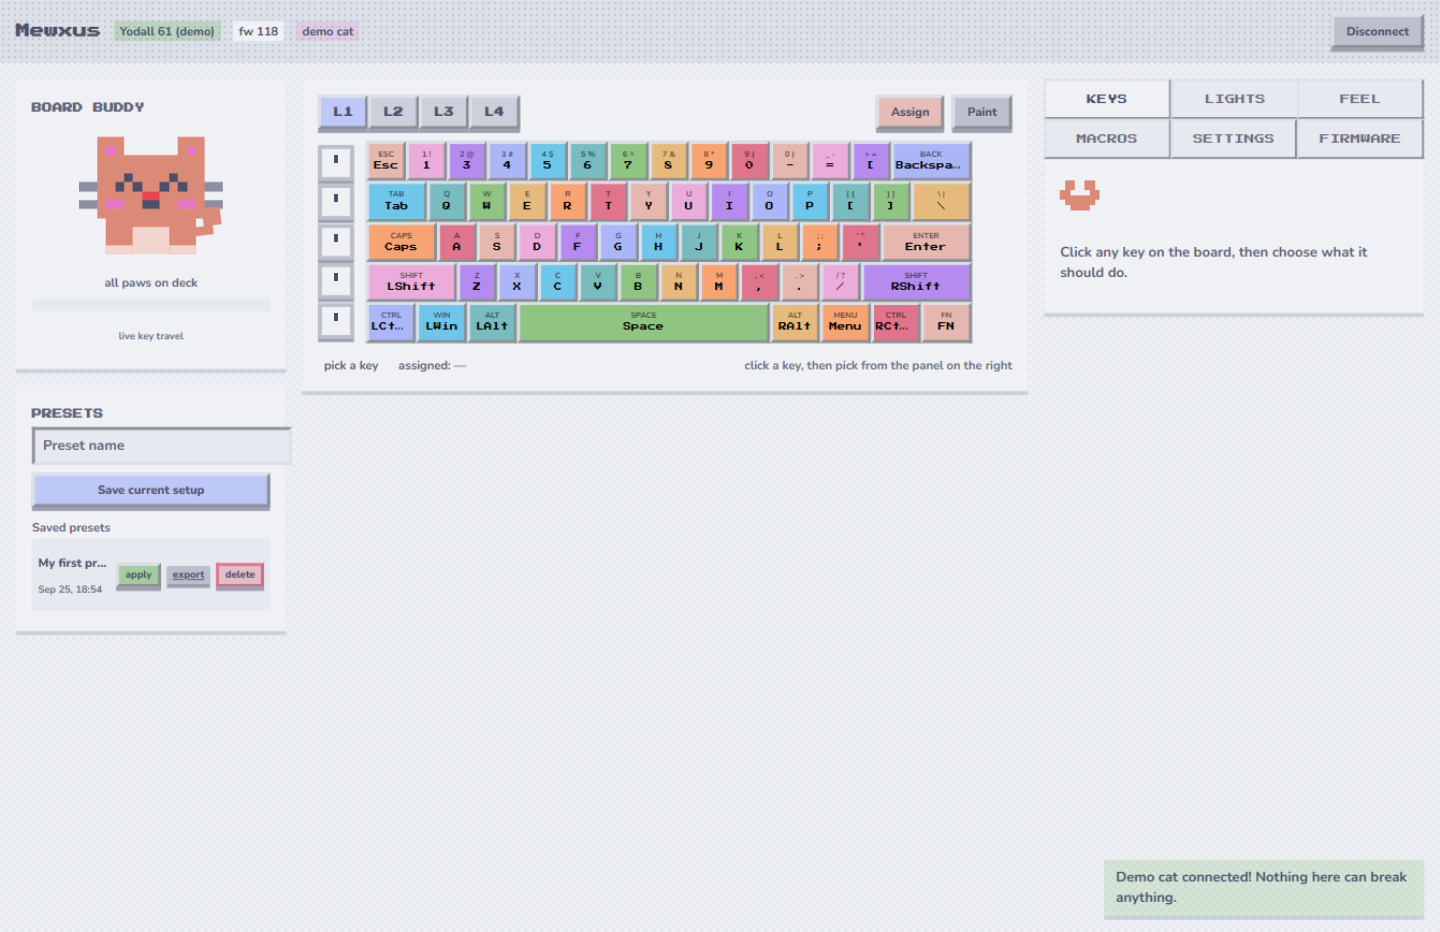
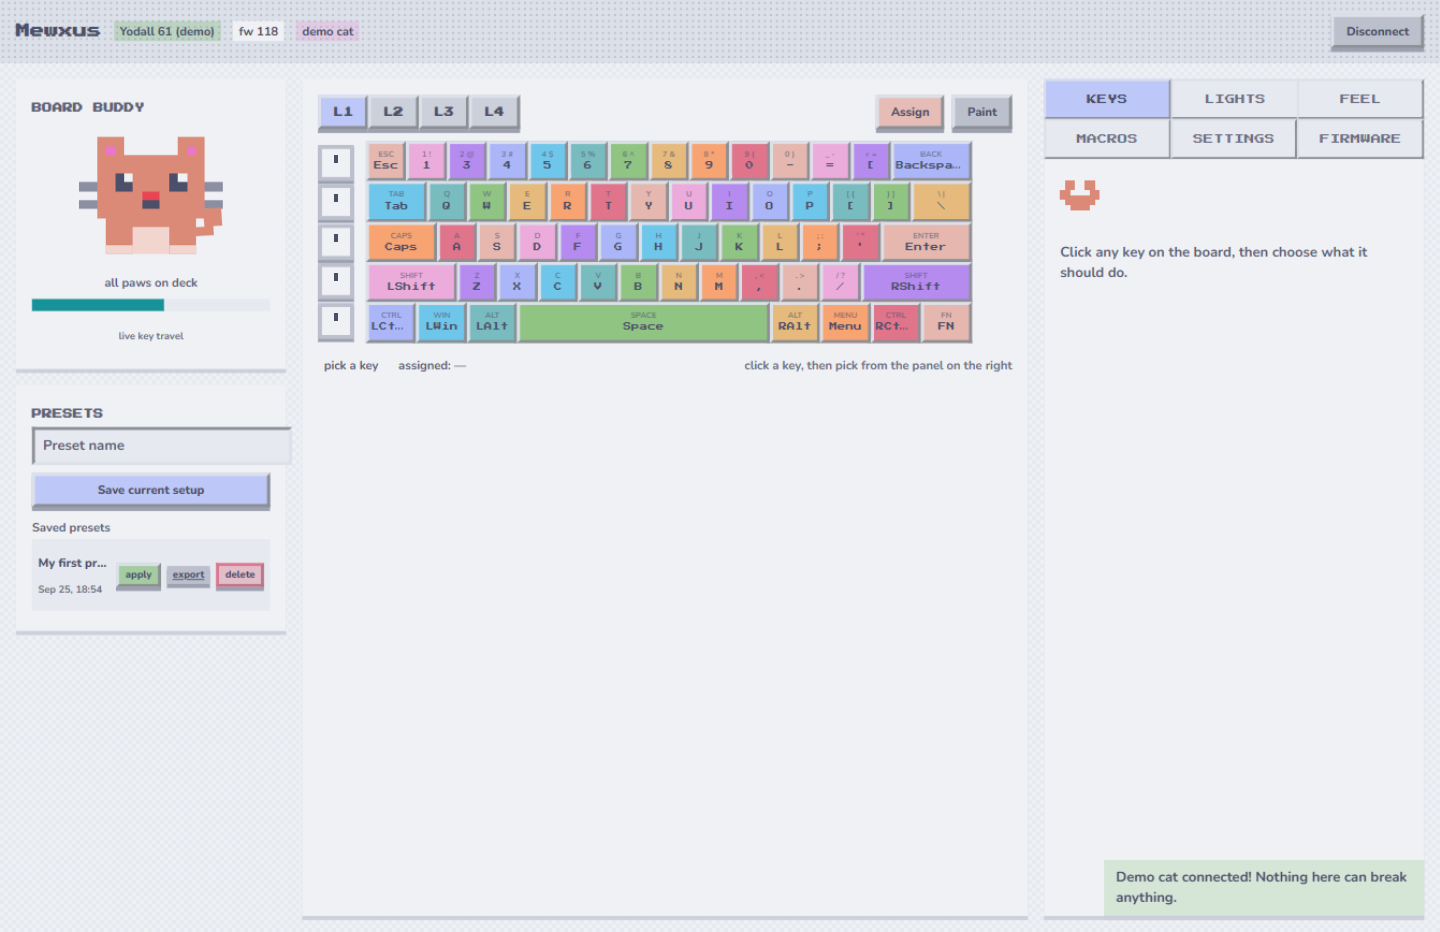
Fix gate CTA contrast (text-base collision), key label color, tab tints, mobile key labels

diff --git a/resources/views/configurator.blade.php b/resources/views/configurator.blade.php
@@ -24,13 +24,13 @@
                  x-text="$store.app.error"></div>
 
             <div class="mt-6 flex flex-col sm:flex-row gap-3 justify-center">
-                <button type="button" class="pixel-btn pixel-btn-primary px-5 py-3 text-base grow"
+                <button type="button" class="pixel-btn pixel-btn-primary px-5 py-3 text-[16px] grow"
                         :disabled="$store.app.connecting"
                         @click="$store.app.connectReal()">
                     <span x-show="!$store.app.connecting">Connect keyboard</span>
                     <span x-show="$store.app.connecting" x-text="$store.app.busyText || 'Connecting...'"></span>
                 </button>
-                <button type="button" class="pixel-btn bg-surface1 px-5 py-3 text-base"
+                <button type="button" class="pixel-btn bg-surface1 px-5 py-3 text-[16px]"
                         :disabled="$store.app.connecting"
                         @click="$store.app.connectDemo()">
                     Try demo cat
@@ -64,7 +64,7 @@
             <button type="button" class="pixel-btn bg-surface1 px-3 py-1.5 text-xs" @click="$store.app.disconnect()">Disconnect</button>
         </header>
 
-        <main class="flex-1 grid gap-4 p-4 items-start grid-cols-1 lg:grid-cols-[270px_minmax(0,1fr)_380px]">
+        <main class="flex-1 grid gap-4 p-4 items-start lg:items-stretch grid-cols-1 lg:grid-cols-[270px_minmax(0,1fr)_380px]">
             {{-- ─── left rail ─── --}}
             <aside class="flex flex-col gap-4">
                 <section class="pixel-panel p-4">
@@ -144,7 +144,7 @@
                     <template x-for="t in ['keys','lights','feel','macros','settings','firmware']" :key="t">
                         <button type="button" role="tab"
                                 class="font-pixel text-[10px] px-1 py-2.5 uppercase border-r-2 border-b-2 border-crust [&:nth-child(3)]:border-r-0 cursor-pointer"
-                                :class="$store.app.tab === t ? 'bg-base text-text' : 'bg-mantle text-subtext0 hover:text-text'"
+                                :class="$store.app.tab === t ? 'bg-lavender/40 text-text' : 'bg-mantle text-subtext0 hover:text-text'"
                                 @click="$store.app.tab = t"
                                 x-text="t" :aria-selected="$store.app.tab === t"></button>
                     </template>

diff --git a/resources/views/partials/keyboard.blade.php b/resources/views/partials/keyboard.blade.php
@@ -17,7 +17,7 @@
     <div class="relative flex-1" style="aspect-ratio: 16 / 5;">
         <template x-for="k in $store.app.boardKeys" :key="'k' + k.slot">
             <button type="button"
-                    class="absolute pixel-border flex flex-col items-center justify-center gap-0.5 px-0.5 text-center cursor-pointer transition-none select-none
+                    class="absolute pixel-border text-text flex flex-col items-center justify-center gap-0.5 px-0.5 text-center cursor-pointer transition-none select-none
                            hover:brightness-105 active:translate-y-0.5 focus-visible:outline-dashed focus-visible:outline-2 focus-visible:outline-mauve"
                     :style="$store.app.keyStyle(k)"
                     :class="$store.app.keyClass(k)"
@@ -25,7 +25,7 @@
                     @click="$store.app.selectSlot(k.slot)">
                 <span class="block font-sans font-bold leading-none text-[7px] sm:text-[8px] opacity-60 truncate w-full"
                       x-text="k.name"></span>
-                <span class="block font-pixel leading-tight text-[6px] sm:text-[8px] truncate w-full"
+                <span class="hidden sm:block font-pixel leading-tight text-[6px] sm:text-[8px] truncate w-full"
                       x-text="$store.app.entryName($store.app.entryAt(k.slot))"></span>
             </button>
         </template>
